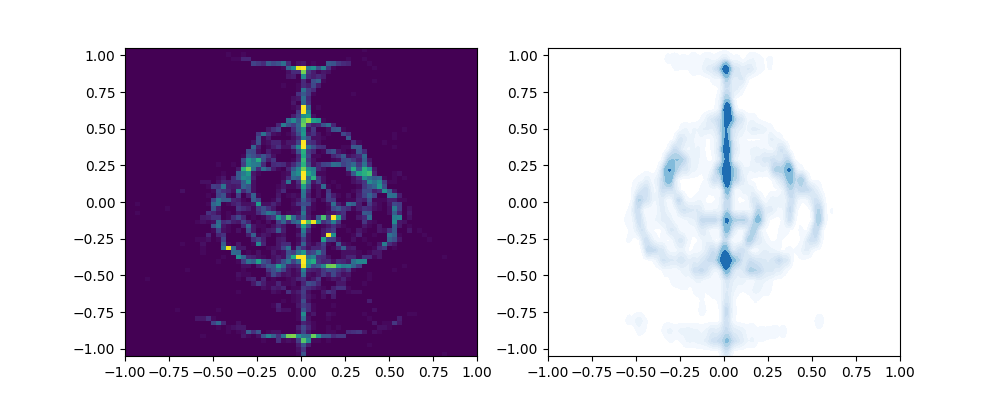
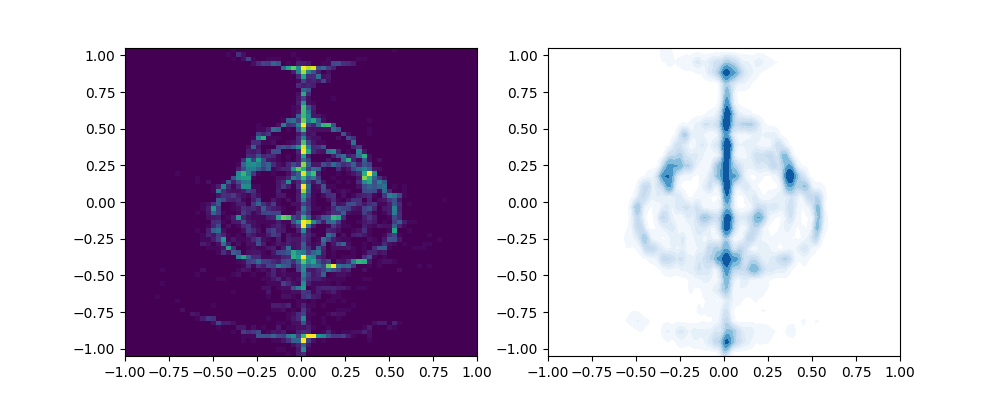
generic commit

diff --git a/scripts/transport/kvae_diffusion.py b/scripts/transport/kvae_diffusion.py
@@ -36,6 +36,13 @@ def shuffle(tensor):
         return tensor[torch.randperm(len(tensor))]
 
 
+def flip(tensor):
+    if geq_1d(tensor).shape[0] <=1:
+        return tensor
+    else:
+        return torch.flip(tensor, dims = [0])
+
+
 def geq_1d(tensor):
     if not len(tensor.shape):
         tensor = tensor.reshape(1)
@@ -100,7 +107,7 @@ class Comp_transport_model:
 
 
     def map_var(self, x_mu, y_eta, y_mean, Lambda_var, X_var, y_var, fit_kernel):
-        x_var = torch.concat([x_mu, shuffle(y_eta), y_mean + y_var], dim=1)
+        x_var = torch.concat([x_mu, flip(y_eta), y_mean + y_var], dim=1)
         Lambda_var = Lambda_var
         z_var = fit_kernel(X_var, x_var).T @ Lambda_var
         return z_var
@@ -175,7 +182,7 @@ class CondTransportKernel(nn.Module):
         base_params['device'] = self.device
         self.iters = deepcopy(self.params['iters'])
         self.noise_eps = self.params['target_eps']
-        self.var_eps = 0 if (self.iters >= 1000) else 1
+        self.var_eps = 1 #if (self.iters >= 1000) else 1
 
         self.Y_eta = geq_1d(torch.tensor(base_params['Y_eta'], device=self.device, dtype=self.dtype))
         self.Y_mean = deepcopy(self.Y_eta)
@@ -188,12 +195,12 @@ class CondTransportKernel(nn.Module):
         self.X_mu = geq_1d(torch.tensor(base_params['X_mu'], device=self.device, dtype=self.dtype))
         self.Y_mu = geq_1d(torch.tensor(base_params['Y_mu'], device=self.device, dtype=self.dtype))
         #self.Y_mu = (1-self.noise_eps) * self.Y_mu  + shuffle(deepcopy(self.Y_eta)) * self.noise_eps
-        self.Y_mu = (1 - self.noise_eps) * self.Y_mu +deepcopy(self.Y_eta) * self.noise_eps
+        self.Y_mu = (1 - self.noise_eps) * self.Y_mu + deepcopy(self.Y_eta) * self.noise_eps
         self.Y_target = torch.concat([deepcopy(self.X_mu), self.Y_mu], dim=1)
 
         self.X_mu = self.X_mu
 
-        self.X_var = torch.concat([self.X_mu, shuffle(self.Y_eta), self.Y_mean + self.Y_var], dim=1)
+        self.X_var = torch.concat([self.X_mu, flip(self.Y_eta), self.Y_mean + self.Y_var], dim=1)
         self.X_mean = torch.concat([self.X_mu, self.Y_mean + self.Y_var], dim=1)
 
         self.Nx = len(self.X_mean)
@@ -287,7 +294,7 @@ class CondTransportKernel(nn.Module):
 
 
     def map_var(self, x_mu, y_eta, y_mean, y_var):
-        x_var = torch.concat([x_mu, shuffle(y_eta), y_mean + y_var], dim=1)
+        x_var = torch.concat([x_mu, flip(y_eta), y_mean + y_var], dim=1)
         Lambda_var = self.get_Lambda_var()
         z_var = self.fit_kernel(self.X_var, x_var).T @ Lambda_var
         return z_var
@@ -395,6 +402,7 @@ def cond_kernel_transport(X_mu, Y_mu, Y_eta, Y_mean, Y_var, X_mu_test, Y_eta_tes
                         'Y_var_test': Y_var_test, 'iters': iters, 'E_mmd_YY': E_mmd_yy, 'grad_cutoff': grad_cutoff}
 
     model = CondTransportKernel(transport_params)
+    n_iter = max(49, n_iter * target_eps)
     model, loss_dict = train_kernel(model, n_iter= n_iter)
     return model, loss_dict
 
